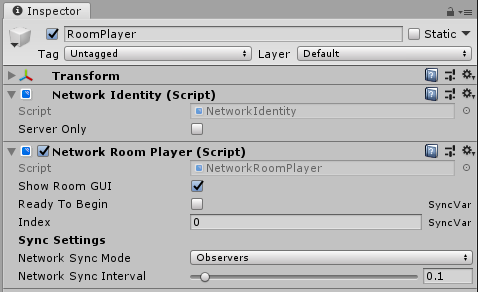
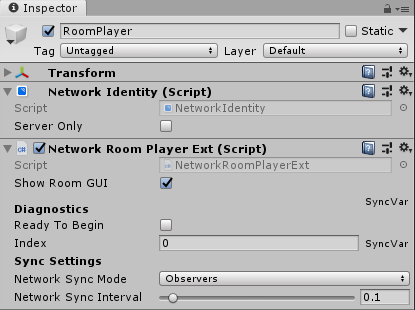
fix: Updated NetworkRoomPlayer inspector and doc and image

Changed region(s): [[0.0, 0.0, 1.0, 1.0]]

diff --git a/Assets/Mirror/Components/NetworkRoomPlayer.cs b/Assets/Mirror/Components/NetworkRoomPlayer.cs
@@ -18,15 +18,18 @@ namespace Mirror
         /// </summary>
         public bool showRoomGUI = true;
 
+        [Header("Diagnostics")]
+
         /// <summary>
-        /// This is a flag that control whether this player is ready for the game to begin.
+        /// Diagnostic flag indicating whether this player is ready for the game to begin.
+        /// <para>Invoke CmdChangeReadyState method on the client to set this flag.</para>
         /// <para>When all players are ready to begin, the game will start. This should not be set directly, the SendReadyToBeginMessage function should be called on the client to set it on the server.</para>
         /// </summary>
         [SyncVar(hook = nameof(ReadyStateChanged))]
         public bool readyToBegin;
 
         /// <summary>
-        /// Current index of the player, e.g. Player1, Player2, etc.
+        /// Diagnostic index of the player, e.g. Player1, Player2, etc.
         /// </summary>
         [SyncVar]
         public int index;

diff --git a/doc/General/ChangeLog.md b/doc/General/ChangeLog.md
@@ -7,6 +7,7 @@ Mirror uses semantic versioning, and the versions shown here are those that were
 ## Version 11.x.x - In Progress
 - Fixed: Setting breakpoints in an IDE for Command's and Rpc's work correctly now.
 - Fixed: NetworkServer's calls to SendToObservers now reports correct channel to Mirror Profiler.
+- Fixed: NetworkRoomPlayer inspector and documentation updated top be less confusing.
 - Changed: NetworkSceneChecker initializes in Awake again because OnEnable proved to be unreliable in some cases.
 - Changed: **Breaking** Many obsolete methods and properties removed. Use version 10 first if upgrading from UNet or older Mirror. See [Deprecations](Deprecations.md) for complete list.
 

diff --git a/doc/Components/NetworkRoomPlayer.md b/doc/Components/NetworkRoomPlayer.md
@@ -8,9 +8,9 @@ A game object with a Network Room Player component must also have a Network Iden
 -   **Show Room GUI**  
     Enable this to show the developer GUI for players in the room. This UI is only intended to be used for ease of development. This is enabled by default.
 -   **Ready To Begin**  
-    Enable this to have room players automatically be set to Ready.
+    Diagnostic indicator that a player is Ready.
 -   **Index**  
-    Sequential index of the player, e.g. Player 1, Player 2, etc.
+    Diagnostic index of the player, e.g. Player 1, Player 2, etc.
 -   **Network Sync Interval**  
     The rate at which information is sent from the Network Room Player to the server.
 
